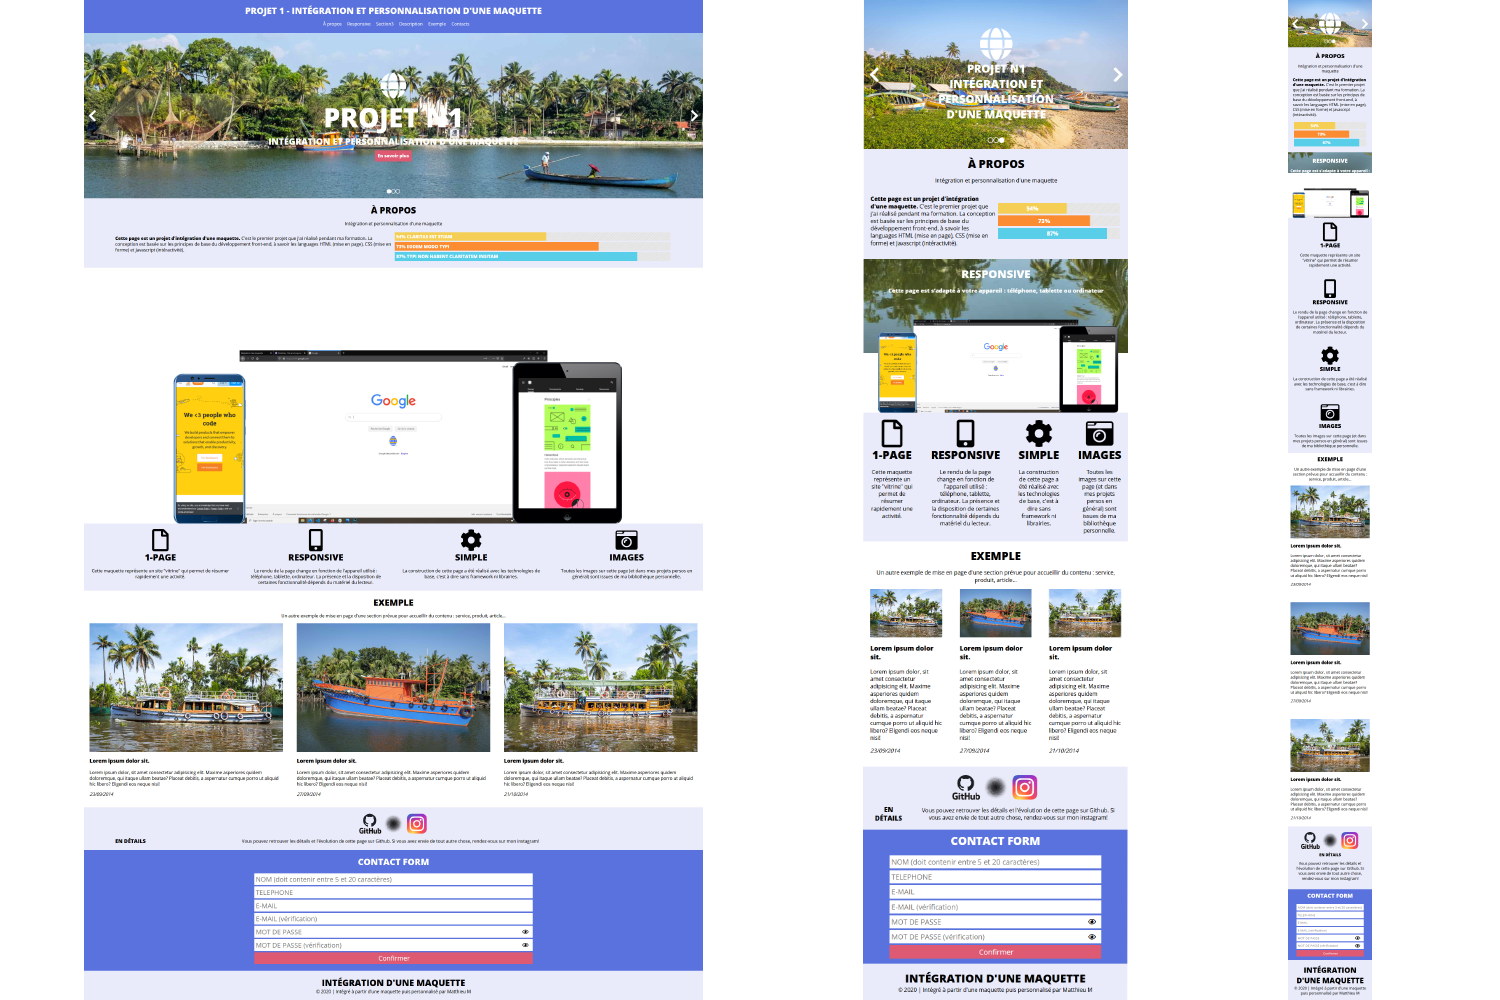
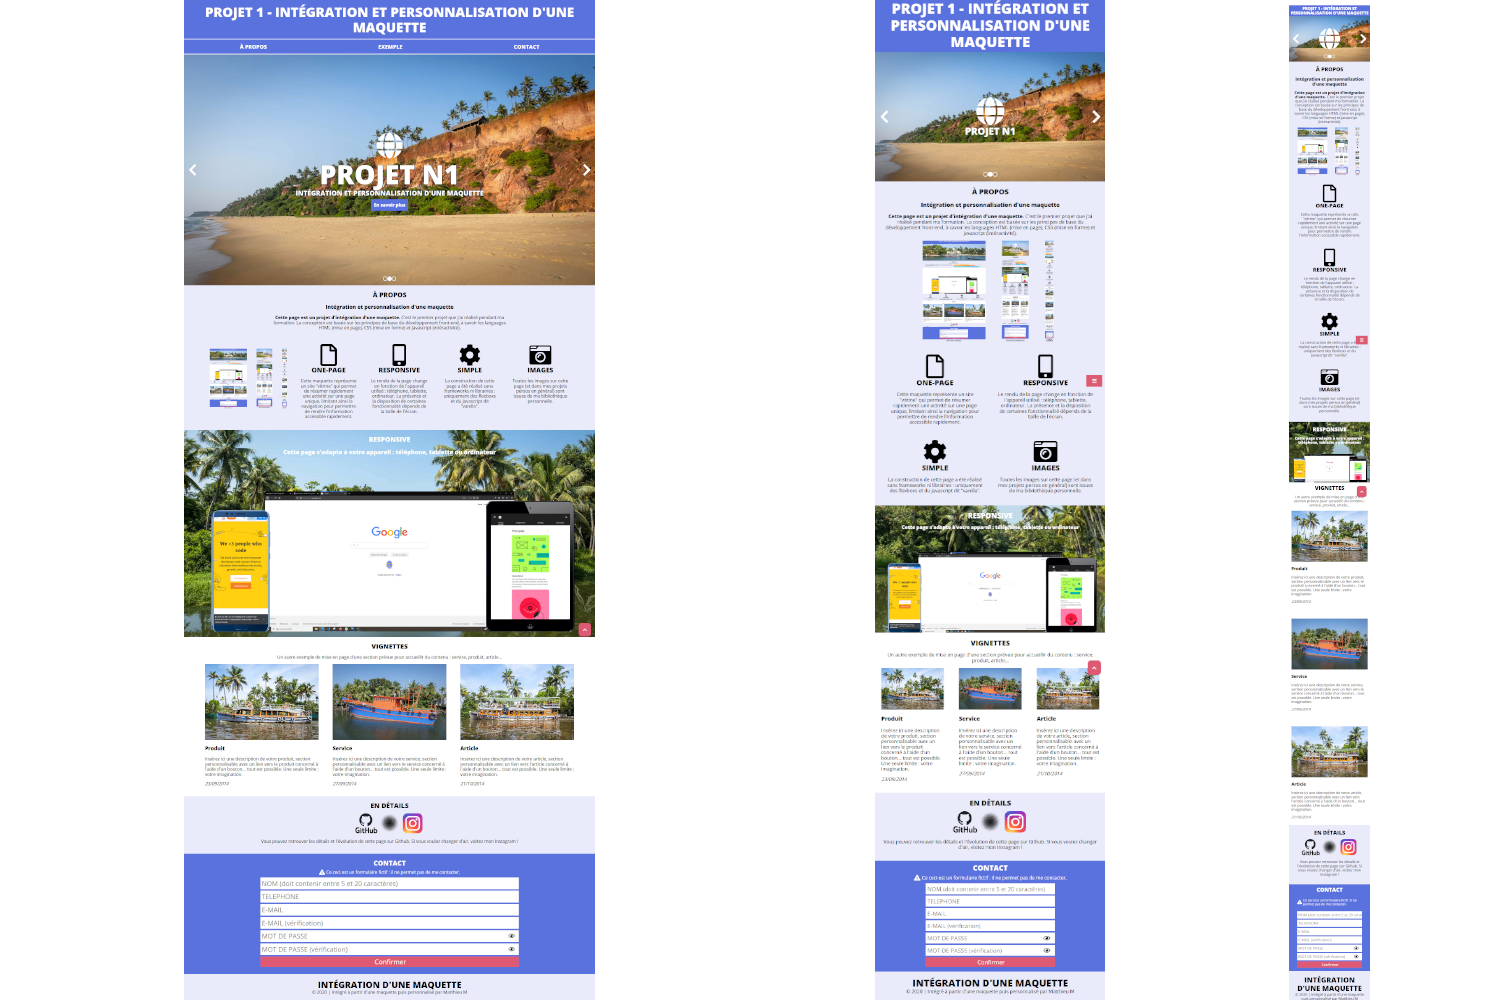
dossier pro (over?)

diff --git a/css/styles.css b/css/styles.css
@@ -51,10 +51,9 @@ a:hover, a:active {
 /* !!!!!!!!!!!!! MENU !!!!!!!!!!!! */
 #menu {
     position: sticky;
-    top: 0%;
+    top: 0;
     padding: 10px;
     z-index: 500;
-    display: flex;
     justify-content: end;
     flex-direction: column;
     display: none;
@@ -169,7 +168,6 @@ nav h1 {
 
 #largemenu {
     list-style-type: none;
-    display: flex;
     flex-direction: row;
     justify-content: space-around;
     margin: 0;
@@ -216,9 +214,8 @@ nav h1 {
 /* SECTION 2 */
 #responsive {
     color: white;
-    background: url(../images/agenceparallax-1.JPG) no-repeat center;
     background-size: cover;
-    background-attachment: fixed;
+    background: url(../images/agenceparallax-1.JPG) no-repeat fixed center;
     text-align: center;
     padding-top: 20px;
     font-weight: bold;
@@ -350,8 +347,7 @@ nav h1 {
     border: none;
     width: 100%;
     margin-bottom: 5px;
-    padding: 5px;
-    padding-right: 0;
+    padding: 5px 0 5px 5px;
     font-family: "Open Sans", sans-serif;
     resize: none;
     box-sizing: border-box;
@@ -427,10 +423,6 @@ footer p {
         padding: 20px;
     }
 
-    #largemenu {
-        display: flex;
-    }
-
     /* SECTION 4 */
     #description {
         padding: 20px;
@@ -487,15 +479,10 @@ footer p {
     nav {
         display: block;
     }
+    #largemenu {
+        display: flex;
+    }
 
-    /* HEADER */
-    /* fixer la VH apporte que des problèmes */
-    /* header{
-        height: 100vh;
-    } */
-    /*header img{*/
-    /*    height: calc(100vh - 100px);*/
-    /*} */
     #menu {
         display: none !important;
     }

diff --git a/index.html b/index.html
@@ -161,9 +161,9 @@
         <!--SECTION 6 Contact-->
         <section id="formulaire">
             <h2>Contact</h2>
-            <h3><i class="fas fa-exclamation-triangle"></i>
-                <p>Ce ceci est un formulaire fictif : il ne permet pas de me contacter.</p>
-            </h3>
+            <div><i class="fas fa-exclamation-triangle"></i>
+                <p>Ce formulaire n'est pas fonctionnel.</p>
+            </div>
             <form class="form" action="#">
                 <div class="formalert">
                     <input type="text" placeholder="NOM (doit contenir entre 5 et 20 caractères)" name="name">
